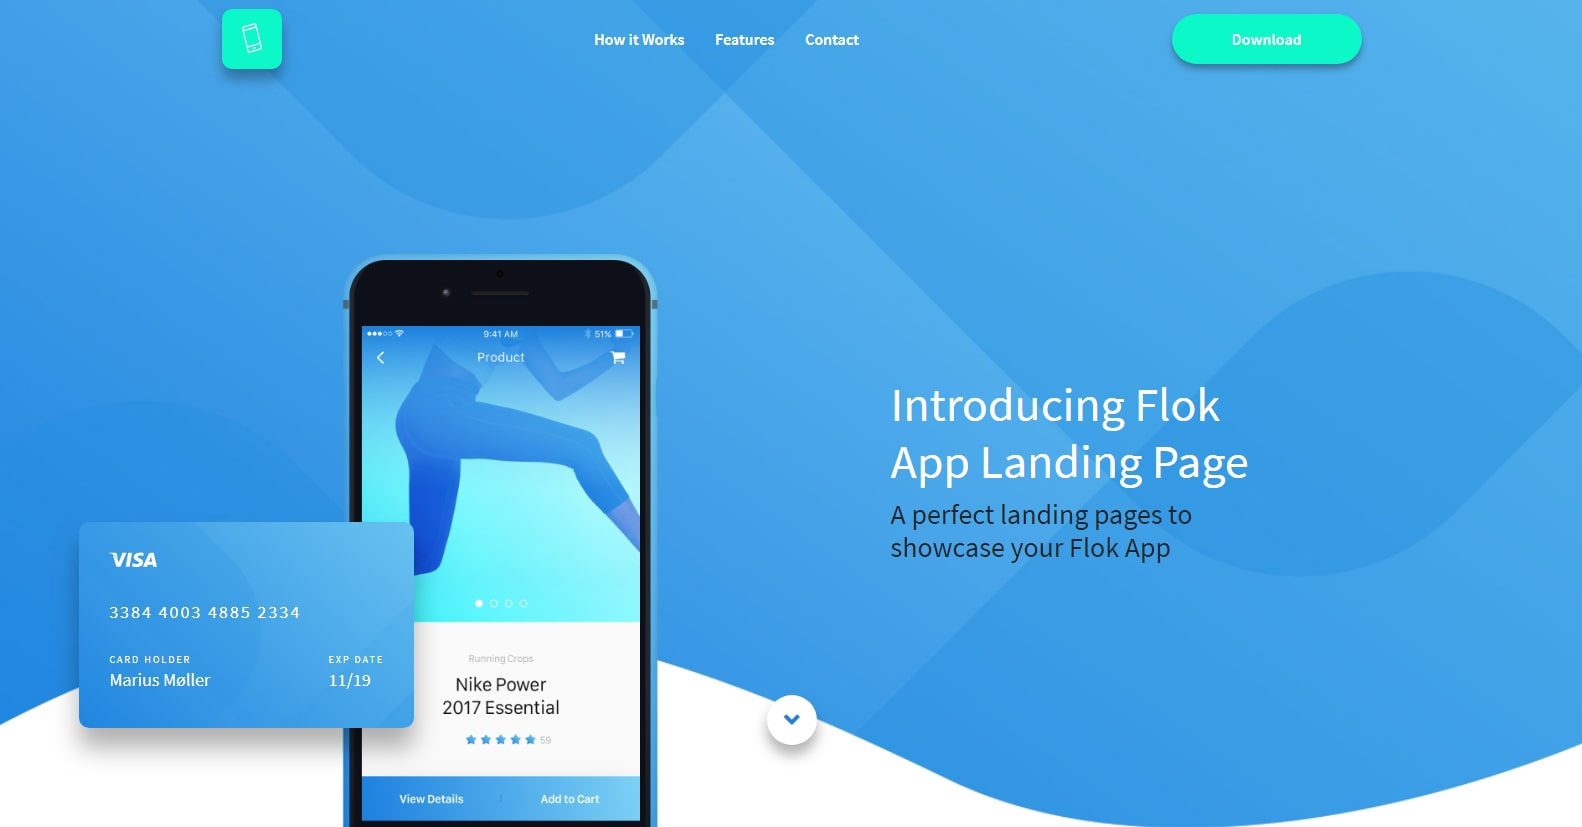
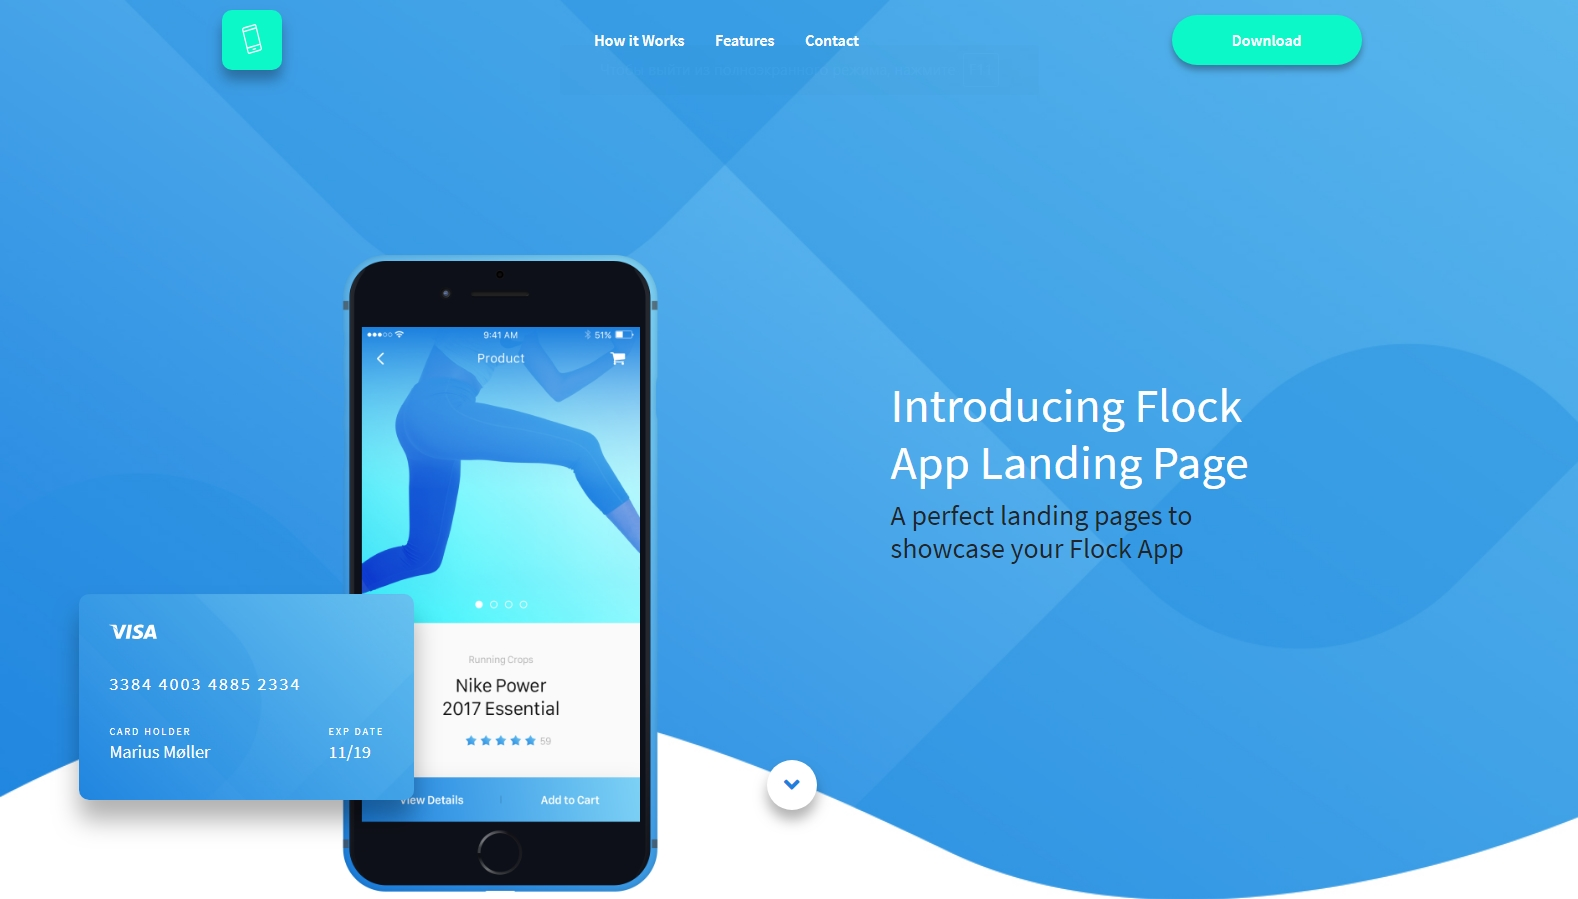
#

diff --git a/flockapp/flockapp.html b/flockapp/flockapp.html
@@ -50,8 +50,8 @@
 			<div class="row">
 				<img src="img/iPhone.png" alt="phone" class="iPhone">
 				<div class="title">
-					<h1>Introducing flock<br>App Landing Page</h1>
-					<h3>A perfect landing pages to<br>showcase your flock App</h3>
+					<h1>Introducing Flock<br>App Landing Page</h1>
+					<h3>A perfect landing pages to<br>showcase your Flock App</h3>
 				</div>
 				<div class="visa-card">
 					<img src="img/visa-logo.svg" alt="visa-logo" class="visa-logo">

diff --git a/index.html b/index.html
@@ -5,7 +5,7 @@
 	<meta name="viewport" content="width=device-width, initial-scale=1.0">
 	<meta http-equiv="X-UA-Compatible" content="ie=edge">
 
-	<title>Vladislav's Portfolio</title>
+	<title>Портфолио Владислава</title>
 
 	<!-- Favicon -->
 	<link rel="apple-touch-icon" sizes="57x57" href="img/favicon/apple-icon-57x57.png">

diff --git a/css/style.less b/css/style.less
@@ -147,6 +147,7 @@ header{
             border-radius: 50%;
             display: block;
             margin: 0 auto;
+            box-shadow: mix(@active, transparent, 50%) 0 0 0  3px;
         }
         .social a {
             border-color: @active;

diff --git a/css/style.css b/css/style.css
@@ -137,6 +137,7 @@ header .links a:hover {
   border-radius: 50%;
   display: block;
   margin: 0 auto;
+  box-shadow: rgba(9, 121, 197, 0.5) 0 0 0 3px;
 }
 .main .content .social a {
   border-color: #0979c5;
